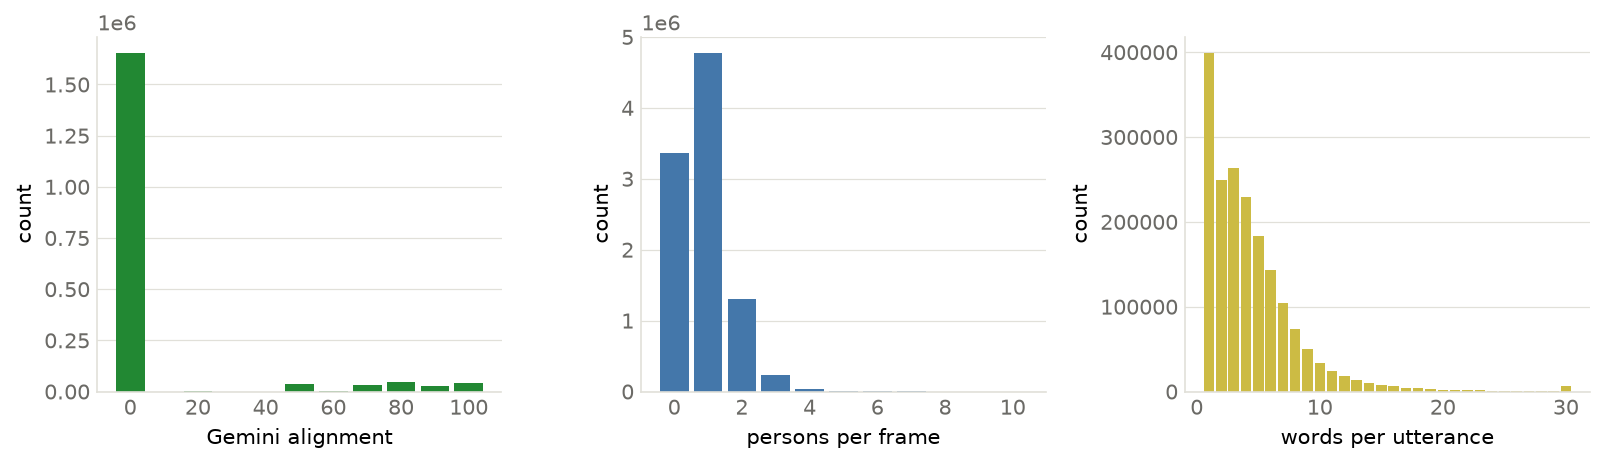
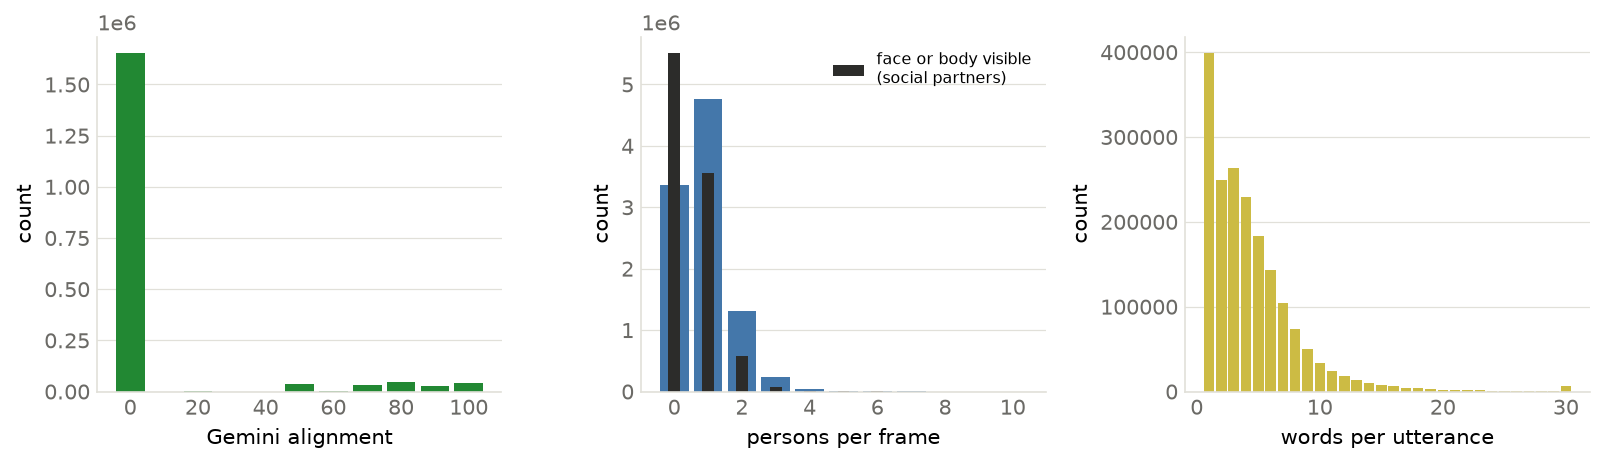
QC round 2: wearer-hand split in pose figures, sparse-bin trend clipping, S02170002 registry flag, S00560001 English audit
- Pose: 65% of frames have a detection but only 43% a face-or-body social partner;
  20.2% of detections are hands-only (the wearing child's own hands). Extractor now
  emits both distributions; figure overlays them.
- Age-trend medians clipped to bins with >=30 videos (children: >=4 per bin).
- S02170002: only S02-range subject tagged BV-main/2026.1 (all others
  2025.1.preschool or unreleased) — flagged as a registry question, 1.0h impact.
- S00560001 audit: caregiver English is real fluent CDS; non-English 5.7% is mostly
  1-word Korean interjections. Claim bounded in the book: measured %English is a
  property of the TRANSCRIBED stream (ASR may under-transcribe non-English), i.e.
  a ceiling on the audio environment.

Changed region(s): [[0.3741, 0.1207, 0.4676, 0.8448], [0.4988, 0.1207, 0.6546, 0.181]]

diff --git a/src/plot_diagnostics.py b/src/plot_diagnostics.py
@@ -93,10 +93,15 @@ save(fig, "diag_english.png")
 # 6. distributions
 def load(n):
     return pd.read_parquet(D / n) if (D / n).exists() else None
-ppf = load("dist_persons_per_frame.parquet")
-if ppf is not None and 0 not in set(ppf.persons_in_frame) and "pose_frames" in V.columns:
-    zero = int(V.pose_frames.sum() - V.pose_frames_with_person.sum())
-    ppf = pd.concat([pd.DataFrame({"persons_in_frame": [0], "count": [zero]}), ppf], ignore_index=True)
+def with_zero(df, colname):
+    if df is not None and 0 not in set(df.persons_in_frame) and "pose_frames" in V.columns:
+        zero = int(V.pose_frames.sum() - V[colname].sum())
+        df = pd.concat([pd.DataFrame({"persons_in_frame": [0], "count": [zero]}), df], ignore_index=True)
+    return df
+ppf = with_zero(load("dist_persons_per_frame.parquet"), "pose_frames_with_person")
+pss = load("dist_partners_per_frame.parquet")
+if pss is not None and "pose_frames_with_partner" in V.columns:
+    pss = with_zero(pss, "pose_frames_with_partner")
 panels = [(load("dist_alignment.parquet"), "alignment_bin", "Gemini alignment", GREEN),
           (ppf, "persons_in_frame", "persons per frame", BLUE),
           (load("dist_utterance_len.parquet"), "n_words", "words per utterance", YELLOW)]
@@ -104,6 +109,10 @@ panels = [p for p in panels if p[0] is not None]
 fig, axs = plt.subplots(1, len(panels), figsize=(3.6 * len(panels), 3.2))
 for a_, (df, xc, t, col) in zip(np.atleast_1d(axs), panels):
     a_.bar(df[xc], df["count"], color=col, width=(df[xc].diff().median() or 1) * 0.85)
+    if t == "persons per frame" and pss is not None:
+        a_.bar(pss.persons_in_frame, pss["count"], color=INK, width=0.35,
+               label="face or body visible\n(social partners)")
+        a_.legend(frameon=False, fontsize=7.5)
     a_.set_xlabel(t); a_.set_ylabel("count"); clean(a_)
 save(fig, "diag_dists.png")
 print(f"release {prov['release']}: {prov['n_videos']:,} videos, {prov['n_children']} children")
@@ -130,9 +139,11 @@ for ax, col, ylab, ylim in [(axs[0], "uph", "utterances / hour", (0, 2200)),
     ax.scatter(V3.age_months, V3[col], s=4, color=BLUE, alpha=0.12, lw=0, zorder=2)
     for _, g in V3.groupby("child"):                 # per-child trajectory, smoothed in 3-mo bins
         if len(g) < 8: continue
-        b = g.groupby((g.age_months // 3) * 3)[col].median()
+        gb = g.groupby((g.age_months // 3) * 3)[col]
+        b = gb.median()[gb.size() >= 4]              # a child's bin needs >=4 videos
         if len(b) >= 3: ax.plot(b.index + 1.5, b.values, lw=1.0, alpha=0.55, color=PURPLE, zorder=3)
-    med = V3.groupby((V3.age_months // 3) * 3)[col].median()
+    mb = V3.groupby((V3.age_months // 3) * 3)[col]
+    med = mb.median()[mb.size() >= 30]               # corpus median only where >=30 videos/bin
     ax.plot(med.index + 1.5, med.values, lw=2.6, color=INK, zorder=4)
     ax.set_xlabel("age at recording (months)"); ax.set_ylabel(ylab); ax.set_ylim(*ylim); clean(ax)
 save(fig, "diag_age_trends.png")

diff --git a/src/make_diagnostics.py b/src/make_diagnostics.py
@@ -90,6 +90,17 @@ try:
     npf = det.groupby(["video_id", "frame_idx"]).size().clip(0, 10).value_counts().sort_index()
     pd.DataFrame({"persons_in_frame": npf.index, "count": npf.values}).to_parquet(
         OUT / "dist_persons_per_frame.parquet", index=False)
+    # split: a detection with a visible face or body is a social partner; hands-only detections
+    # are largely the wearing child's own hands entering the frame (20% of all detections)
+    soc = pd.read_parquet(a.pose, columns=["video_id", "frame_idx", "person_detected",
+                                           "face_in_image", "body_in_image"])
+    soc = soc[(soc.person_detected == 1) &
+              (soc.face_in_image.astype(bool) | soc.body_in_image.astype(bool))]
+    nsf = soc.groupby(["video_id", "frame_idx"]).size().clip(0, 10).value_counts().sort_index()
+    pd.DataFrame({"persons_in_frame": nsf.index, "count": nsf.values}).to_parquet(
+        OUT / "dist_partners_per_frame.parquet", index=False)
+    P2 = soc.groupby("video_id").frame_idx.nunique().rename("pose_frames_with_partner").reset_index()
+    V = V.merge(P2, on="video_id", how="left")
 except Exception as e:
     note("pose", a.pose, 0, ok=False); print(f"    {e}")
 
